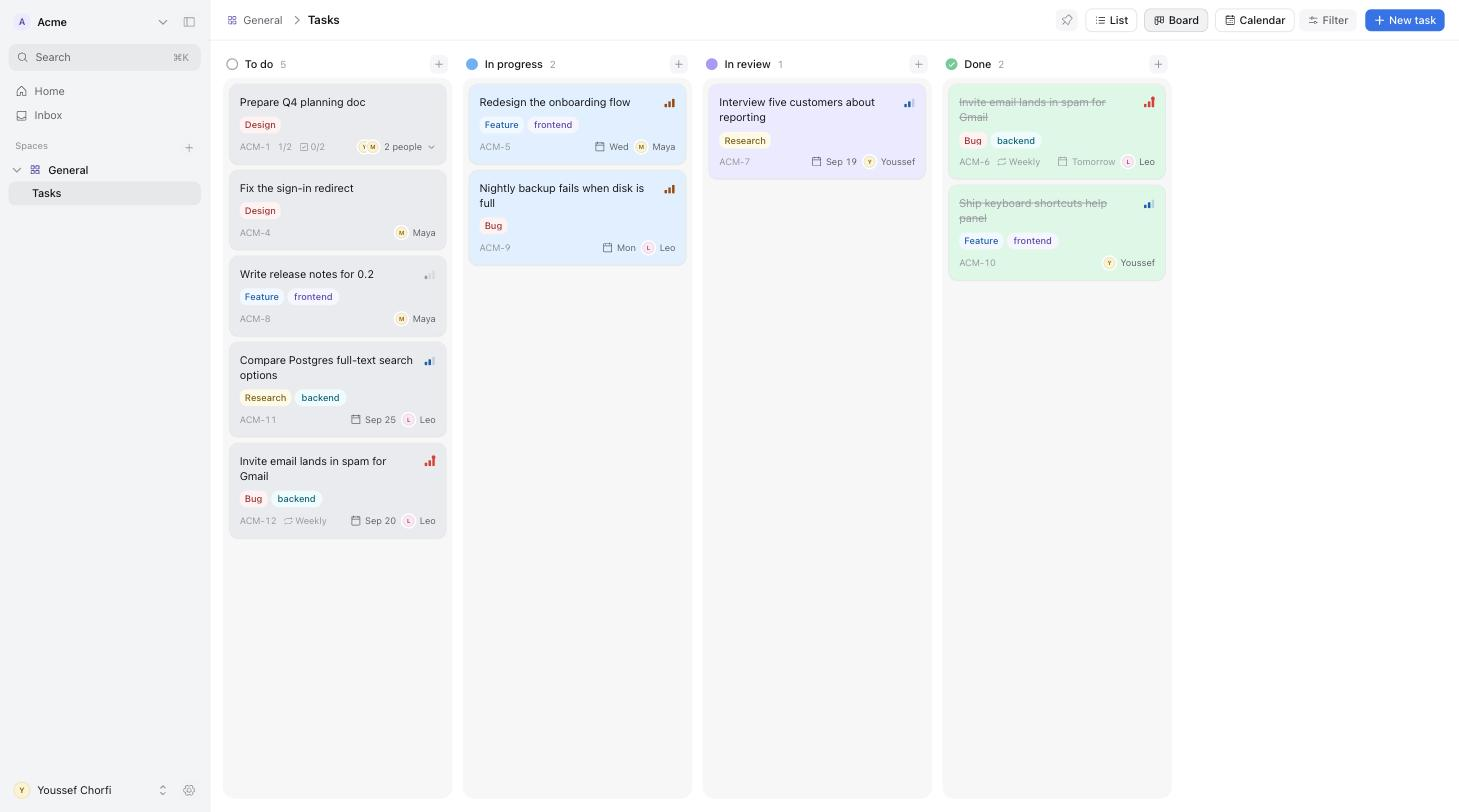
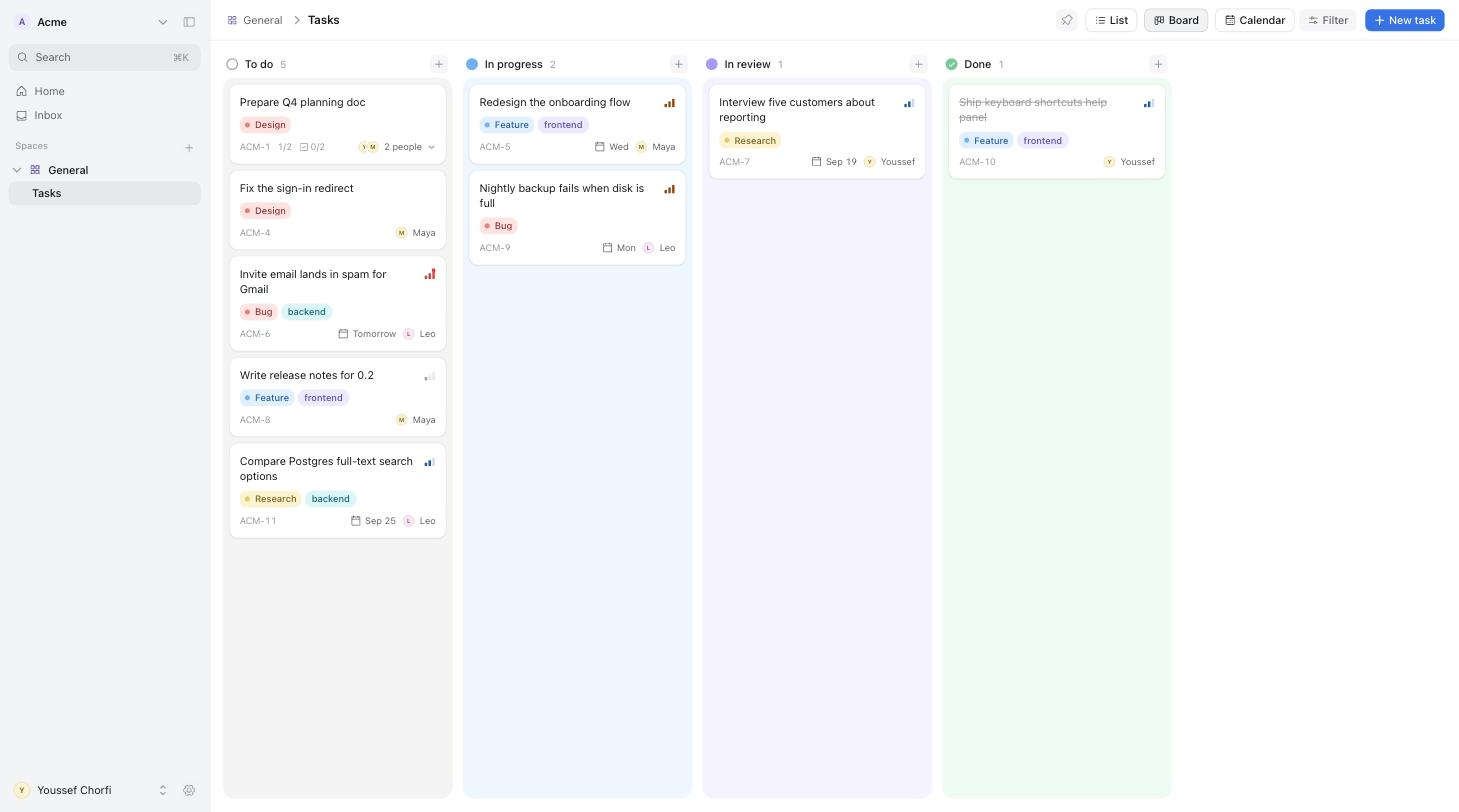
Revert "Task cards take their status colour; no status pill"
This reverts commit fc71f63fbc480de924fdc305add69b6033cc2252.

diff --git a/apps/web/src/components/tasks/task-row.tsx b/apps/web/src/components/tasks/task-row.tsx
@@ -9,7 +9,7 @@ import { TagChip } from "./tag-chip";
 import { CategoryChip } from "./category-chip";
 import { DueLabel } from "./due-label";
 import { PriorityIcon } from "./priority-icon";
-import { asPastel } from "@/components/common/pastel";
+import { StatusDot } from "./status-dot";
 import { AssigneeLabel, AssigneePicker } from "./pickers/assignee-picker";
 import { DueDatePicker } from "./pickers/due-date-picker";
 import { PriorityPicker } from "./pickers/priority-picker";
@@ -21,7 +21,7 @@ import { cn } from "@/lib/utils";
 
 export type TaskRowProps = {
   task: TaskRowType;
-  /** Name the status on the card (for views that aren't grouped by status). */
+  /** Show the status pill (for views that aren't grouped by status). */
   showStatus?: boolean;
   /** Show which list the task belongs to (Home, search). */
   listName?: string;
@@ -55,7 +55,6 @@ export const TaskRow = forwardRef<HTMLDivElement, TaskRowProps>(function TaskRow
   const tags = task.task_tags.map((t) => t.tags).filter((t): t is NonNullable<typeof t> => !!t);
   const hasAssignees = task.task_assignees.length > 0;
   const recurrence = parseRecurrence(task.recurrence);
-  const tone = asPastel(status?.color);
 
   return (
     <div
@@ -68,17 +67,15 @@ export const TaskRow = forwardRef<HTMLDivElement, TaskRowProps>(function TaskRow
         if (e.key === "Enter" && e.target === e.currentTarget) openTask(task.id);
       }}
       className={cn(
-        "group/row relative flex flex-col gap-1 rounded-lg py-2 pl-1 pr-3 text-[13px] shadow-card outline-none transition-shadow",
-        status ? `pastel-fill-${tone}` : "bg-surface",
+        "group/row relative flex flex-col gap-1 rounded-lg bg-surface py-2 pl-1 pr-3 text-[13px] shadow-card outline-none transition-shadow",
         "hover:shadow-float focus-visible:ring-3 focus-visible:ring-ring/40",
         dragging && "opacity-30",
         overlay && "shadow-float",
         className,
       )}
       data-task-id={task.id}
-      data-tinted={status ? "" : undefined}
     >
-      {/* Line 1: check, number, title, status, priority */}
+      {/* Line 1: check, number, title, priority */}
       <div className="flex items-center gap-2">
         <div className="flex w-4 shrink-0 items-center justify-center self-stretch">
           {dragHandleProps && canEdit ? (
@@ -110,7 +107,8 @@ export const TaskRow = forwardRef<HTMLDivElement, TaskRowProps>(function TaskRow
             listId={task.list_id}
             disabled={!canEdit}
             trigger={
-              <button type="button" className={cn("flex h-5 shrink-0 items-center rounded-md px-1.5 text-[11px] font-medium hover:bg-surface/70", `pastel-text-${tone}`)} onClick={(e) => e.stopPropagation()}>
+              <button type="button" className={cn("flex h-5 shrink-0 items-center gap-1.5 rounded-md px-1.5 text-[11px] font-medium", `pastel-${status.color}`)} onClick={(e) => e.stopPropagation()}>
+                <StatusDot color={status.color} category={status.category} size={9} />
                 {status.name}
               </button>
             }
@@ -123,7 +121,7 @@ export const TaskRow = forwardRef<HTMLDivElement, TaskRowProps>(function TaskRow
           trigger={
             <button
               type="button"
-              className={cn("flex size-6 shrink-0 items-center justify-center rounded-md hover:bg-surface/70", task.priority === "none" && "opacity-0 group-hover/row:opacity-100 focus-visible:opacity-100")}
+              className={cn("flex size-6 shrink-0 items-center justify-center rounded-md hover:bg-muted", task.priority === "none" && "opacity-0 group-hover/row:opacity-100 focus-visible:opacity-100")}
               onClick={(e) => e.stopPropagation()}
               aria-label="Set priority"
             >
@@ -180,7 +178,7 @@ export const TaskRow = forwardRef<HTMLDivElement, TaskRowProps>(function TaskRow
             trigger={
               <button
                 type="button"
-                className={cn("flex h-6 items-center gap-1 rounded-md px-1.5 hover:bg-surface/70", !task.due_date && "text-ink-3 opacity-0 group-hover/row:opacity-100 focus-visible:opacity-100")}
+                className={cn("flex h-6 items-center gap-1 rounded-md px-1.5 hover:bg-muted", !task.due_date && "text-ink-3 opacity-0 group-hover/row:opacity-100 focus-visible:opacity-100")}
                 onClick={(e) => e.stopPropagation()}
                 aria-label="Set due date"
               >
@@ -203,7 +201,7 @@ export const TaskRow = forwardRef<HTMLDivElement, TaskRowProps>(function TaskRow
             trigger={
               <button
                 type="button"
-                className={cn("flex h-6 min-w-0 max-w-44 items-center gap-1 rounded-md px-1.5 hover:bg-surface/70", !hasAssignees && "text-ink-3 opacity-0 group-hover/row:opacity-100 focus-visible:opacity-100")}
+                className={cn("flex h-6 min-w-0 max-w-44 items-center gap-1 rounded-md px-1.5 hover:bg-muted", !hasAssignees && "text-ink-3 opacity-0 group-hover/row:opacity-100 focus-visible:opacity-100")}
                 onClick={(e) => e.stopPropagation()}
                 aria-label="Assign"
               >

diff --git a/apps/web/src/app/globals.css b/apps/web/src/app/globals.css
@@ -10,9 +10,6 @@
    borders, and a family of pastel accents for metadata. Exactly two "hard"
    colours exist: --action (blue) for the primary action on a screen and
    --destructive (red) for irreversible or urgent things.
-   Task cards are filled with their status colour (.pastel-fill-*); chips on
-   them use .pastel-chip so a same-hue chip still reads. Group containers and
-   board columns stay neutral so the cards carry the colour.
    ------------------------------------------------------------------------ */
 
 @theme inline {
@@ -260,15 +257,15 @@
 
 @layer utilities {
   /* Pastel utilities: .pastel-sky sets bg + fg; .pastel-dot-sky paints a dot. */
-  .pastel-gray { --pastel-bg: var(--pastel-gray-bg); background: var(--pastel-bg); color: var(--pastel-gray-fg); }
-  .pastel-rose { --pastel-bg: var(--pastel-rose-bg); background: var(--pastel-bg); color: var(--pastel-rose-fg); }
-  .pastel-peach { --pastel-bg: var(--pastel-peach-bg); background: var(--pastel-bg); color: var(--pastel-peach-fg); }
-  .pastel-butter { --pastel-bg: var(--pastel-butter-bg); background: var(--pastel-bg); color: var(--pastel-butter-fg); }
-  .pastel-mint { --pastel-bg: var(--pastel-mint-bg); background: var(--pastel-bg); color: var(--pastel-mint-fg); }
-  .pastel-aqua { --pastel-bg: var(--pastel-aqua-bg); background: var(--pastel-bg); color: var(--pastel-aqua-fg); }
-  .pastel-sky { --pastel-bg: var(--pastel-sky-bg); background: var(--pastel-bg); color: var(--pastel-sky-fg); }
-  .pastel-lavender { --pastel-bg: var(--pastel-lavender-bg); background: var(--pastel-bg); color: var(--pastel-lavender-fg); }
-  .pastel-blush { --pastel-bg: var(--pastel-blush-bg); background: var(--pastel-bg); color: var(--pastel-blush-fg); }
+  .pastel-gray { background: var(--pastel-gray-bg); color: var(--pastel-gray-fg); }
+  .pastel-rose { background: var(--pastel-rose-bg); color: var(--pastel-rose-fg); }
+  .pastel-peach { background: var(--pastel-peach-bg); color: var(--pastel-peach-fg); }
+  .pastel-butter { background: var(--pastel-butter-bg); color: var(--pastel-butter-fg); }
+  .pastel-mint { background: var(--pastel-mint-bg); color: var(--pastel-mint-fg); }
+  .pastel-aqua { background: var(--pastel-aqua-bg); color: var(--pastel-aqua-fg); }
+  .pastel-sky { background: var(--pastel-sky-bg); color: var(--pastel-sky-fg); }
+  .pastel-lavender { background: var(--pastel-lavender-bg); color: var(--pastel-lavender-fg); }
+  .pastel-blush { background: var(--pastel-blush-bg); color: var(--pastel-blush-fg); }
 
   .pastel-dot-gray { background: var(--pastel-gray-dot); }
   .pastel-dot-rose { background: var(--pastel-rose-dot); }
@@ -289,21 +286,6 @@
   .pastel-text-sky { color: var(--pastel-sky-fg); }
   .pastel-text-lavender { color: var(--pastel-lavender-fg); }
   .pastel-text-blush { color: var(--pastel-blush-fg); }
-
-  /* Chips on a tinted card sit on a paler version of their colour, so a chip
-     in the same hue as the card stays visible. */
-  [data-tinted] .pastel-chip { background: color-mix(in oklch, var(--pastel-bg) 45%, var(--surface)); }
-
-  /* Task cards: the card itself takes its status colour (text stays ink) */
-  .pastel-fill-gray { background: var(--pastel-gray-bg); }
-  .pastel-fill-rose { background: var(--pastel-rose-bg); }
-  .pastel-fill-peach { background: var(--pastel-peach-bg); }
-  .pastel-fill-butter { background: var(--pastel-butter-bg); }
-  .pastel-fill-mint { background: var(--pastel-mint-bg); }
-  .pastel-fill-aqua { background: var(--pastel-aqua-bg); }
-  .pastel-fill-sky { background: var(--pastel-sky-bg); }
-  .pastel-fill-lavender { background: var(--pastel-lavender-bg); }
-  .pastel-fill-blush { background: var(--pastel-blush-bg); }
 
   /* Group containers: a light wash of the group's colour */
   .pastel-wash-gray { background: color-mix(in oklch, var(--pastel-gray-bg) 55%, var(--surface)); }

diff --git a/apps/web/src/components/tasks/list-view.tsx b/apps/web/src/components/tasks/list-view.tsx
@@ -26,7 +26,7 @@ import { useMoveTask } from "@/lib/queries/tasks";
 import { useUi, type ListGroupBy } from "@/stores/ui";
 import { TaskRow } from "./task-row";
 import { StatusDot } from "./status-dot";
-import { ColorDot } from "@/components/common/pastel";
+import { ColorDot, asPastel } from "@/components/common/pastel";
 import { InlineTaskComposer } from "./inline-task-composer";
 import { NO_STATUS, findContainer, groupTasks, positionAt } from "./dnd";
 import { Button } from "@/components/ui/button";
@@ -178,7 +178,7 @@ export function ListView({ tasks, listId, groupBy = "status" }: { tasks: TaskRow
         ) : null}
       </div>
       <DragOverlay dropAnimation={{ duration: 160, easing: "cubic-bezier(0.22, 1, 0.36, 1)" }}>
-        {activeTask ? <TaskRow task={activeTask} overlay showStatus={groupBy === "category"} className="w-[min(720px,90vw)]" /> : null}
+        {activeTask ? <TaskRow task={activeTask} overlay className="w-[min(720px,90vw)]" /> : null}
       </DragOverlay>
     </DndContext>
   );
@@ -219,7 +219,7 @@ function Group({
   return (
     <section
       ref={setNodeRef}
-      className={cn("mx-3 mb-3 flex flex-col rounded-xl bg-muted/60 p-2 transition-shadow", isOver && "ring-2 ring-action/30")}
+      className={cn("mx-3 mb-3 flex flex-col rounded-xl p-2 transition-shadow", `pastel-wash-${asPastel(color)}`, isOver && "ring-2 ring-action/30")}
     >
       <header className="group/head flex h-8 items-center gap-2 px-1.5">
         <button
@@ -261,7 +261,7 @@ function Group({
           <div className="flex min-h-2 flex-col gap-1.5">
             {ids.map((tid) => {
               const t = tasksById.get(tid);
-              return t ? <SortableRow key={tid} task={t} showStatus={groupBy === "category"} /> : null;
+              return t ? <SortableRow key={tid} task={t} /> : null;
             })}
           </div>
         </SortableContext>
@@ -283,8 +283,8 @@ function Group({
   );
 }
 
-function SortableRow({ task, showStatus }: { task: TaskRowType; showStatus?: boolean }) {
+function SortableRow({ task }: { task: TaskRowType }) {
   const { attributes, listeners, setNodeRef, transform, transition, isDragging } = useSortable({ id: task.id });
   const style: React.CSSProperties = { transform: CSS.Translate.toString(transform), transition };
-  return <TaskRow ref={setNodeRef} task={task} showStatus={showStatus} style={style} dragging={isDragging} dragHandleProps={{ ...attributes, ...listeners } as React.HTMLAttributes<HTMLButtonElement>} />;
+  return <TaskRow ref={setNodeRef} task={task} style={style} dragging={isDragging} dragHandleProps={{ ...attributes, ...listeners } as React.HTMLAttributes<HTMLButtonElement>} />;
 }

diff --git a/apps/web/src/components/tasks/board-view.tsx b/apps/web/src/components/tasks/board-view.tsx
@@ -176,7 +176,7 @@ function Column({
       </header>
       <div
         ref={setNodeRef}
-        className={cn("flex min-h-0 flex-1 flex-col gap-2 overflow-y-auto rounded-xl bg-muted/60 p-2 transition-shadow scrollbar-thin", isOver && "ring-2 ring-action/30")}
+        className={cn("flex min-h-0 flex-1 flex-col gap-2 overflow-y-auto rounded-xl p-2 transition-shadow scrollbar-thin", `pastel-wash-${asPastel(color)}`, isOver && "ring-2 ring-action/30")}
       >
         <SortableContext items={ids} strategy={verticalListSortingStrategy}>
           {ids.map((tid) => {
@@ -201,9 +201,7 @@ function SortableCard({ task }: { task: TaskRowType }) {
 
 export function Card({ task, overlay }: { task: TaskRowType; overlay?: boolean }) {
   const { workspace } = useWorkspace();
-  const { byId } = useSpaceStatuses(task.list_id);
   const openTask = useOpenTask();
-  const status = task.status_id ? byId.get(task.status_id) : undefined;
   const done = !!task.completed_at;
   const tags = task.task_tags.map((t) => t.tags).filter((t): t is NonNullable<typeof t> => !!t);
   const subTotal = task.subtasks?.length ?? 0;
@@ -220,11 +218,9 @@ export function Card({ task, overlay }: { task: TaskRowType; overlay?: boolean }
       onClick={() => openTask(task.id)}
       onKeyDown={(e) => e.key === "Enter" && openTask(task.id)}
       className={cn(
-        "flex cursor-default flex-col gap-2 rounded-lg p-3 text-[13px] shadow-card outline-none transition-shadow hover:shadow-float focus-visible:ring-3 focus-visible:ring-ring/40",
-        status ? `pastel-fill-${asPastel(status.color)}` : "bg-surface",
+        "flex cursor-default flex-col gap-2 rounded-lg bg-surface p-3 text-[13px] shadow-card outline-none transition-shadow hover:shadow-float focus-visible:ring-3 focus-visible:ring-ring/40",
         overlay && "w-[256px] rotate-1 shadow-float",
       )}
-      data-tinted={status ? "" : undefined}
     >
       <div className="flex items-start gap-2">
         <span className={cn("min-w-0 flex-1 leading-snug", done && "text-ink-3 line-through")}>{task.title}</span>

diff --git a/apps/web/src/components/tasks/calendar-view.tsx b/apps/web/src/components/tasks/calendar-view.tsx
@@ -20,7 +20,7 @@ import { useMoveTask } from "@/lib/queries/tasks";
 import { useOpenTask } from "@/hooks/use-open-task";
 import { useUi } from "@/stores/ui";
 import { parseDate, toDateString } from "@/lib/dates";
-import { asPastel } from "@/components/common/pastel";
+import { StatusDot } from "./status-dot";
 import { Button } from "@/components/ui/button";
 import type { TaskRow as TaskRowType } from "@/lib/types";
 import { cn } from "@/lib/utils";
@@ -165,14 +165,14 @@ function Chip({ task, listId, overlay, className }: { task: TaskRowType; listId:
       {...listeners}
       onClick={() => openTask(task.id)}
       className={cn(
-        "flex h-6 w-full min-w-0 items-center rounded-md px-1.5 text-left text-[12px] leading-none hover:shadow-card",
-        status ? `pastel-fill-${asPastel(status.color)}` : "bg-muted/70",
+        "flex h-6 w-full min-w-0 items-center gap-1.5 rounded-md bg-muted/70 px-1.5 text-left text-[12px] leading-none hover:bg-muted",
         task.completed_at && "text-ink-3 line-through",
         isDragging && "opacity-30",
-        overlay && "w-40 shadow-float",
+        overlay && "w-40 bg-surface shadow-float",
         className,
       )}
     >
+      <StatusDot color={status?.color} category={status?.category} size={10} />
       <span className="truncate">{task.title}</span>
     </button>
   );

diff --git a/apps/web/src/components/tasks/tag-chip.tsx b/apps/web/src/components/tasks/tag-chip.tsx
@@ -5,7 +5,7 @@ import { cn } from "@/lib/utils";
 
 export function TagChip({ name, color, className, onRemove }: { name: string; color?: string | null; className?: string; onRemove?: () => void }) {
   return (
-    <span className={cn("inline-flex h-5 max-w-32 items-center gap-1 rounded-full px-2 text-[11px] font-medium leading-none", `pastel-chip pastel-${asPastel(color)}`, className)}>
+    <span className={cn("inline-flex h-5 max-w-32 items-center gap-1 rounded-full px-2 text-[11px] font-medium leading-none", `pastel-${asPastel(color)}`, className)}>
       <span className="truncate">{name}</span>
       {onRemove ? (
         <button type="button" onClick={onRemove} aria-label={`Remove ${name}`} className="-mr-1 rounded-full px-1 opacity-60 hover:opacity-100">

diff --git a/apps/web/src/components/tasks/category-chip.tsx b/apps/web/src/components/tasks/category-chip.tsx
@@ -8,7 +8,7 @@ import type { Category } from "@/lib/types";
 export function CategoryChip({ category, className }: { category: Pick<Category, "name" | "color">; className?: string }) {
   const c = asPastel(category.color);
   return (
-    <span className={cn("inline-flex h-5 max-w-36 items-center rounded-md px-1.5 text-[11px] font-medium leading-none", `pastel-chip pastel-${c}`, className)}>
+    <span className={cn("inline-flex h-5 max-w-36 items-center rounded-md px-1.5 text-[11px] font-medium leading-none", `pastel-${c}`, className)}>
       <span className="truncate">{category.name}</span>
     </span>
   );
